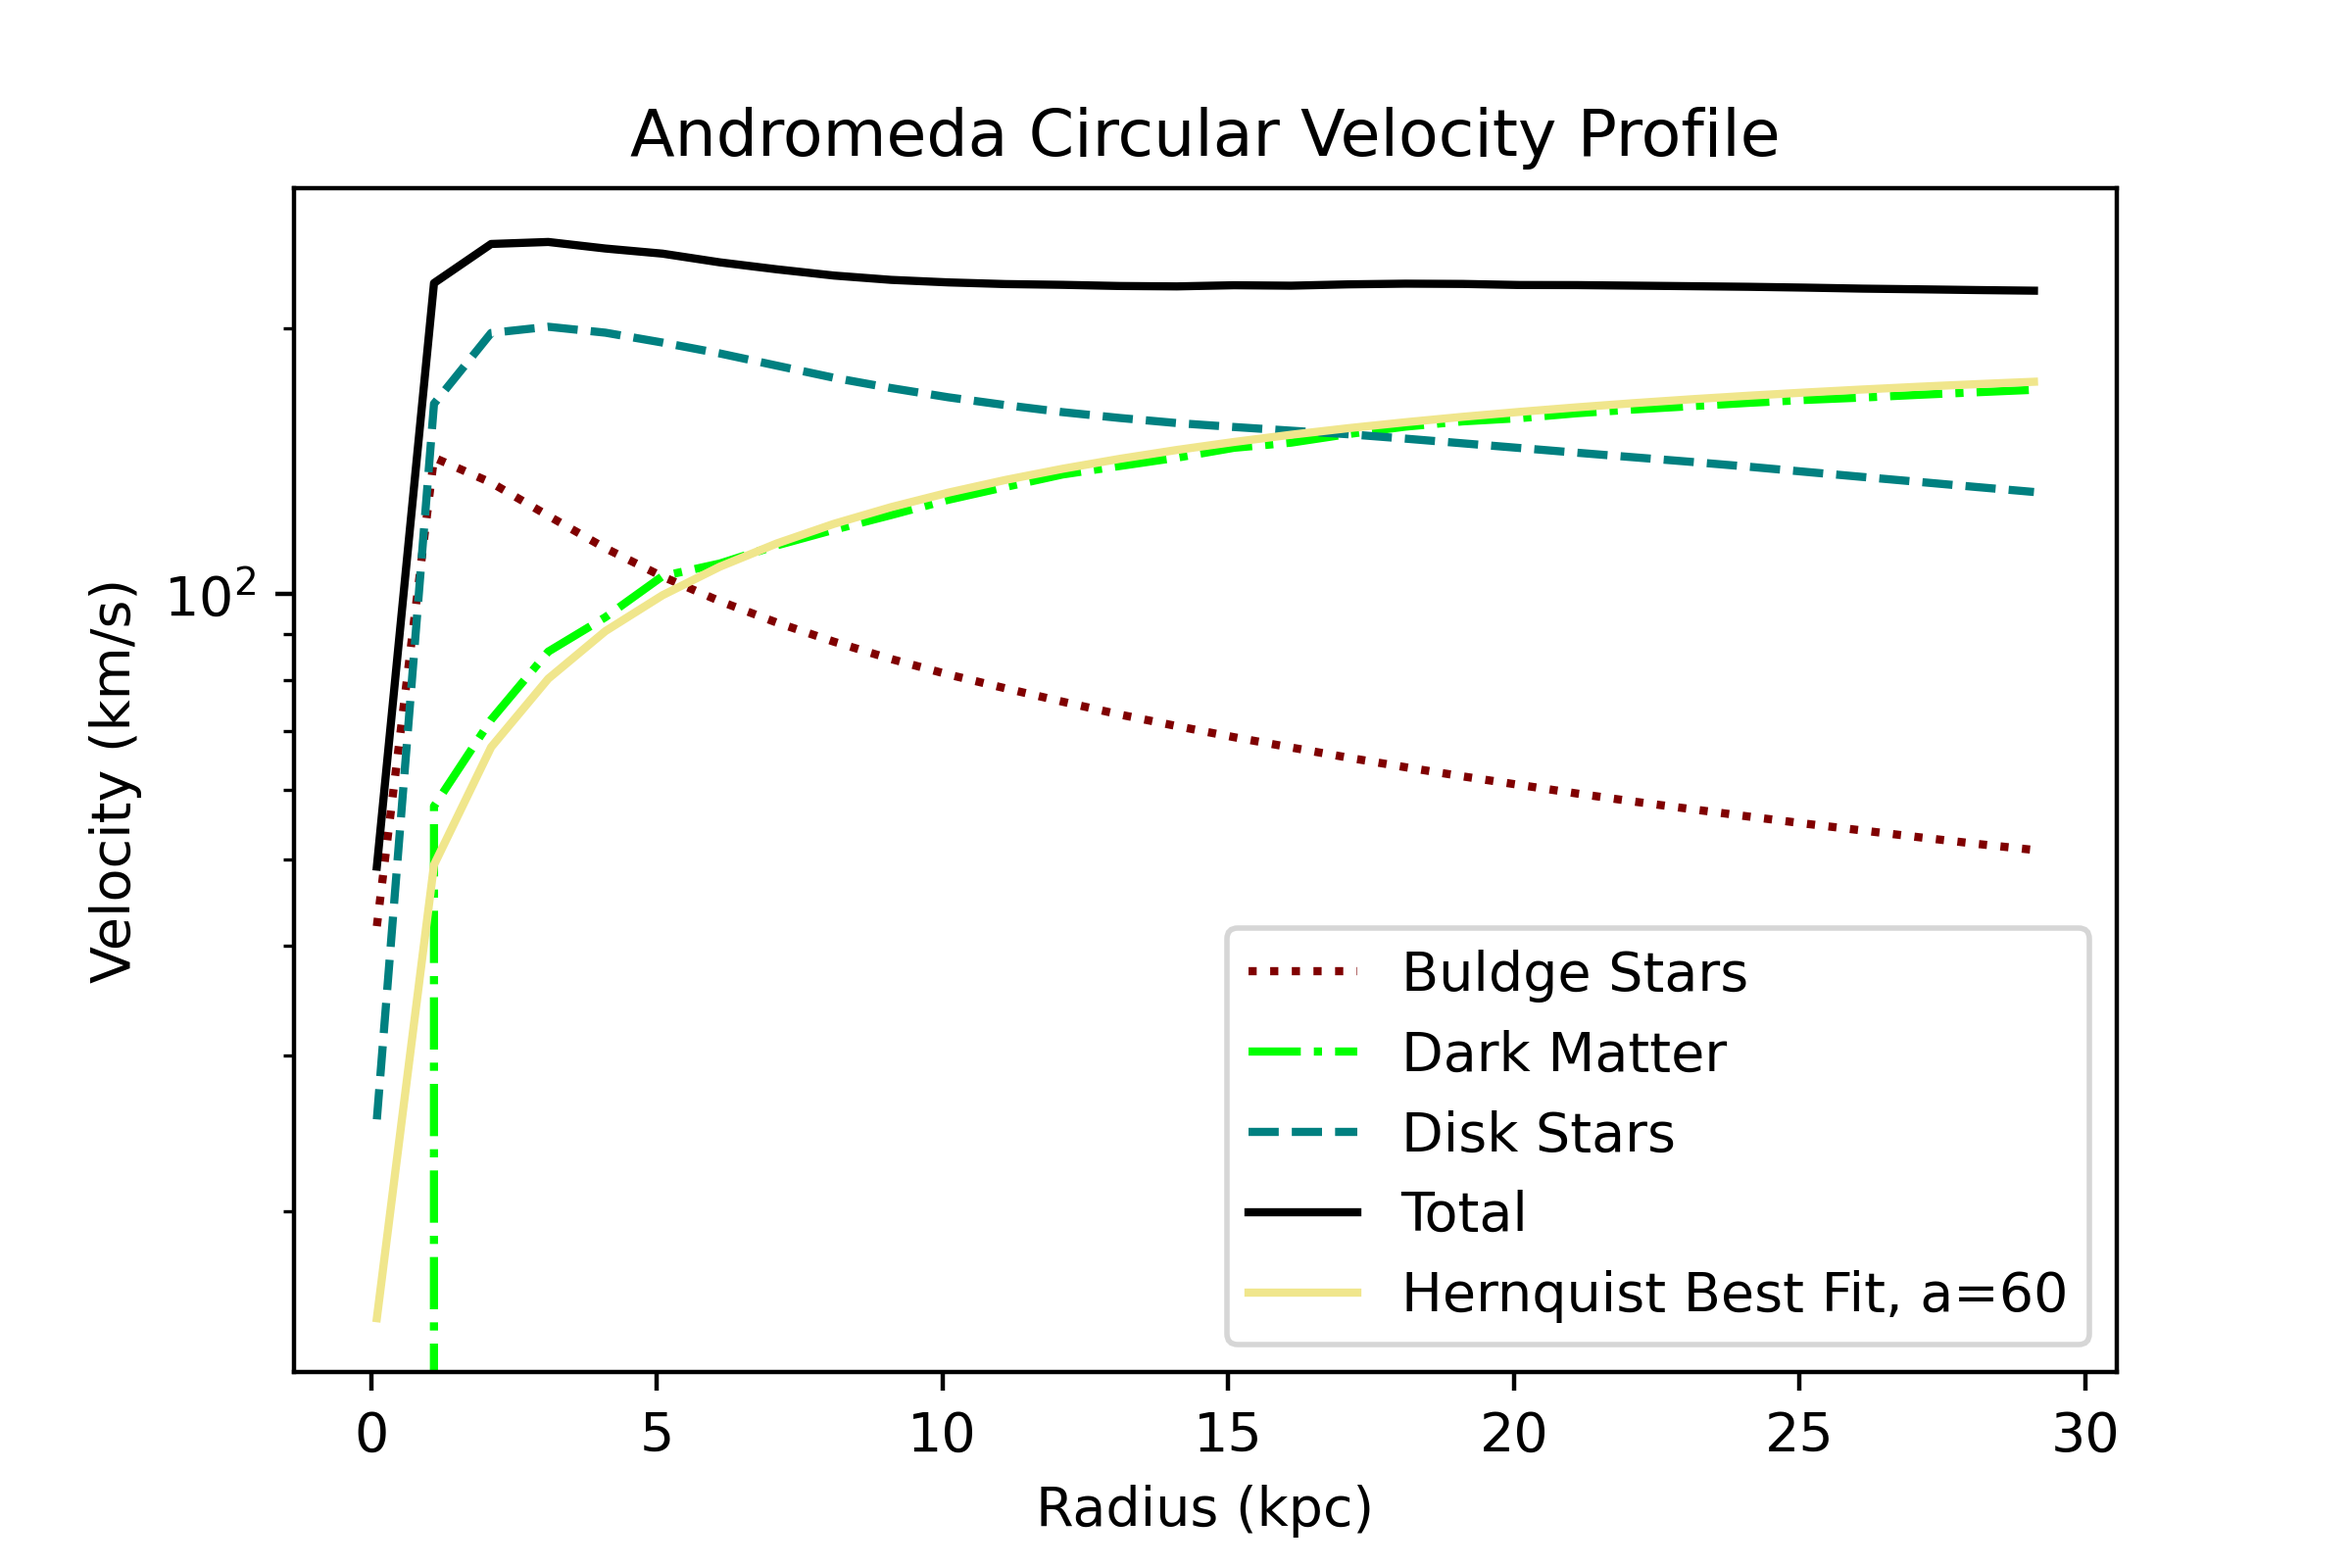
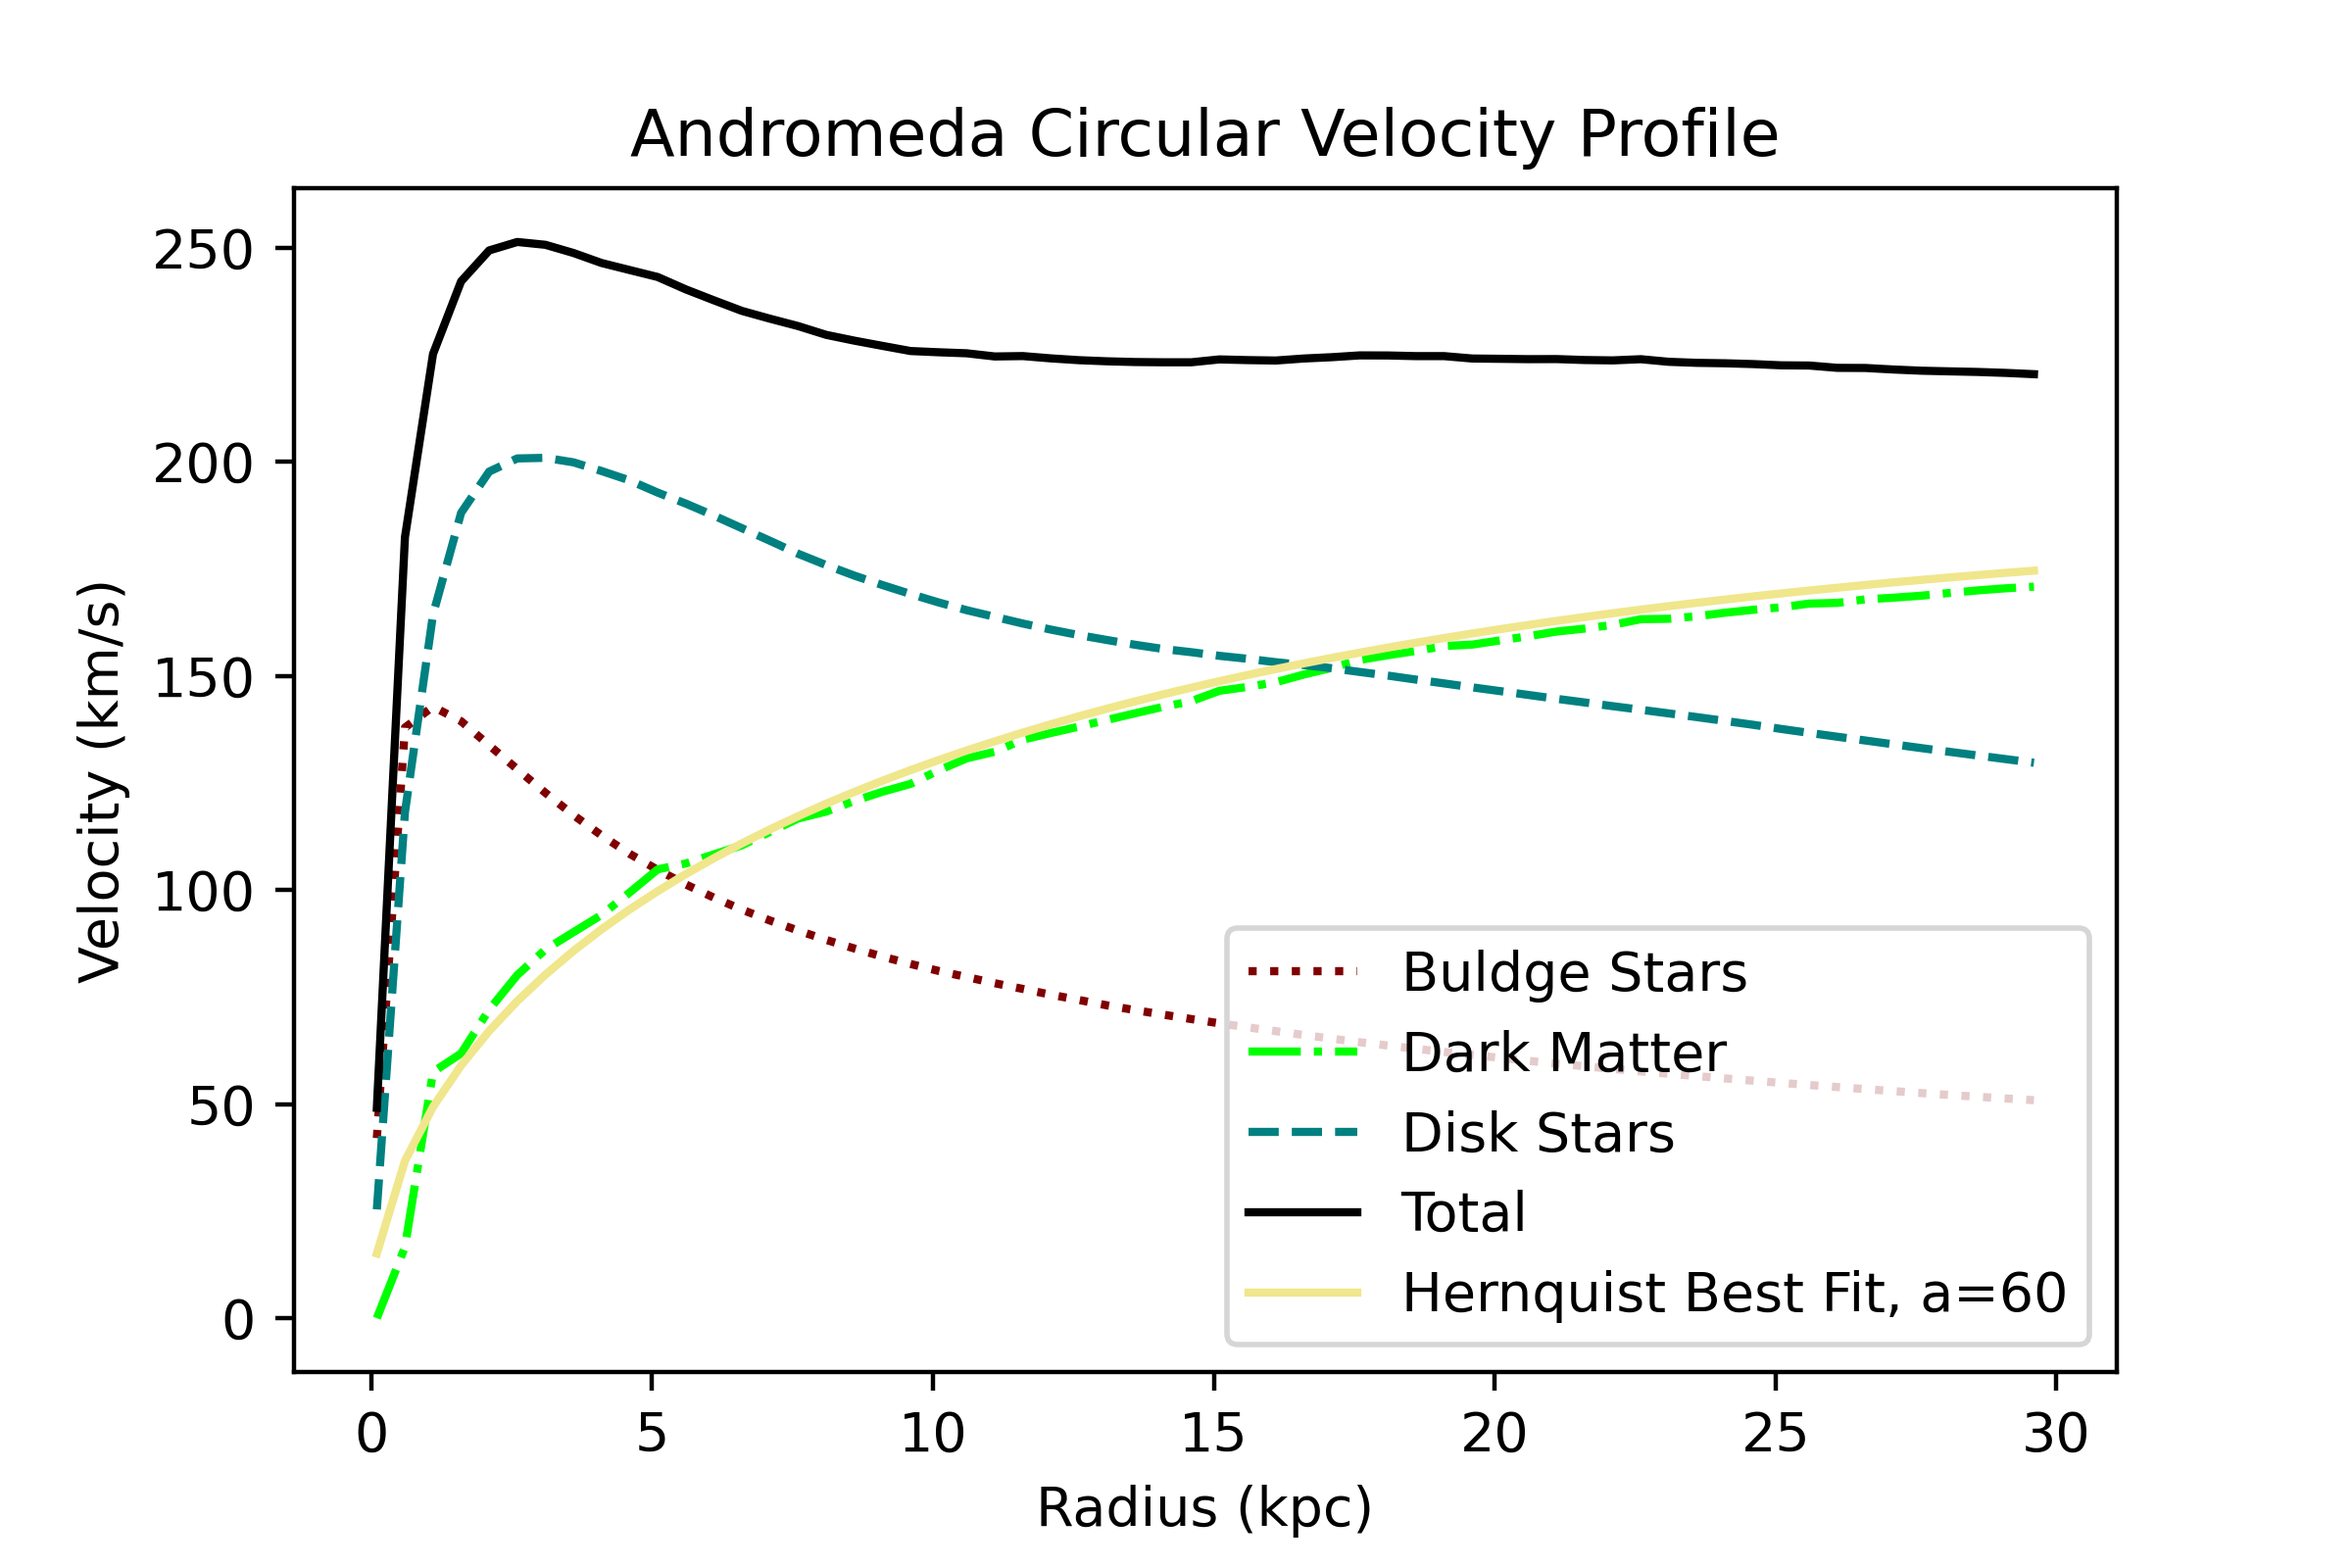
Changed circular velocity profiles to be linear rather than logarithmic

diff --git a/Homeworks/Homework5/MassProfile.py b/Homeworks/Homework5/MassProfile.py
@@ -255,17 +255,17 @@ def velocity_curves(galShorthand,timestamp,test_a):
     disk_velocities = galaxy.CircularVelocity(2, rs) # Get disk-caused circular velocity
     if galShorthand != 'M33': # Don't plot buldge values for M33
         buldge_velocities = galaxy.CircularVelocity(3, rs) # Get buldge-caused velocity
-        plt.semilogy(rs,buldge_velocities,color='maroon',linestyle='dotted',label="Buldge Stars") # Plot buldge-caused velocity curve
+        plt.plot(rs,buldge_velocities,color='maroon',linestyle='dotted',label="Buldge Stars") # Plot buldge-caused velocity curve
     total_velocities = galaxy.CircularVelocityTotal(rs) # Get circular velocity from galactic mass
     DM_mass = ComponentMass(galaxy.filename, 1.0)*1e12*u.Msun # Get total galactic DM mass
     hernquist_velocities = np.zeros(len(rs))*u.km/u.s # Create dummy array for Hernquist Circular Velocities
     for ri in range(len(rs)): # Index through radii
         hernquist_velocities[ri] = HernquistVCirc(rs[ri],test_a*u.kpc,DM_mass) # Get Hernquist Circular Velocity within radii
     plt.title(galName+' Circular Velocity Profile') # Add plot title
-    plt.semilogy(rs,DM_velocities,color='lime',linestyle='dashdot',label="Dark Matter") # Plot DM-caused velocity curve
-    plt.semilogy(rs,disk_velocities,color='teal',linestyle='dashed',label="Disk Stars") # Plot disk-caused velocity curve
-    plt.semilogy(rs,total_velocities,color='black',linestyle='solid',label="Total") # Plot velocity curve
-    plt.semilogy(rs,hernquist_velocities,color='khaki',linestyle='solid',label="Hernquist Best Fit, a="+str(test_a)) # Plot theoretical velocity curve
+    plt.plot(rs,DM_velocities,color='lime',linestyle='dashdot',label="Dark Matter") # Plot DM-caused velocity curve
+    plt.plot(rs,disk_velocities,color='teal',linestyle='dashed',label="Disk Stars") # Plot disk-caused velocity curve
+    plt.plot(rs,total_velocities,color='black',linestyle='solid',label="Total") # Plot velocity curve
+    plt.plot(rs,hernquist_velocities,color='khaki',linestyle='solid',label="Hernquist Best Fit, a="+str(test_a)) # Plot theoretical velocity curve
     plt.legend(loc='lower right') # Add labels for curves
     plt.xlabel('Radius (kpc)') # Label x axis
     plt.ylabel('Velocity (km/s)') # Label y axis
